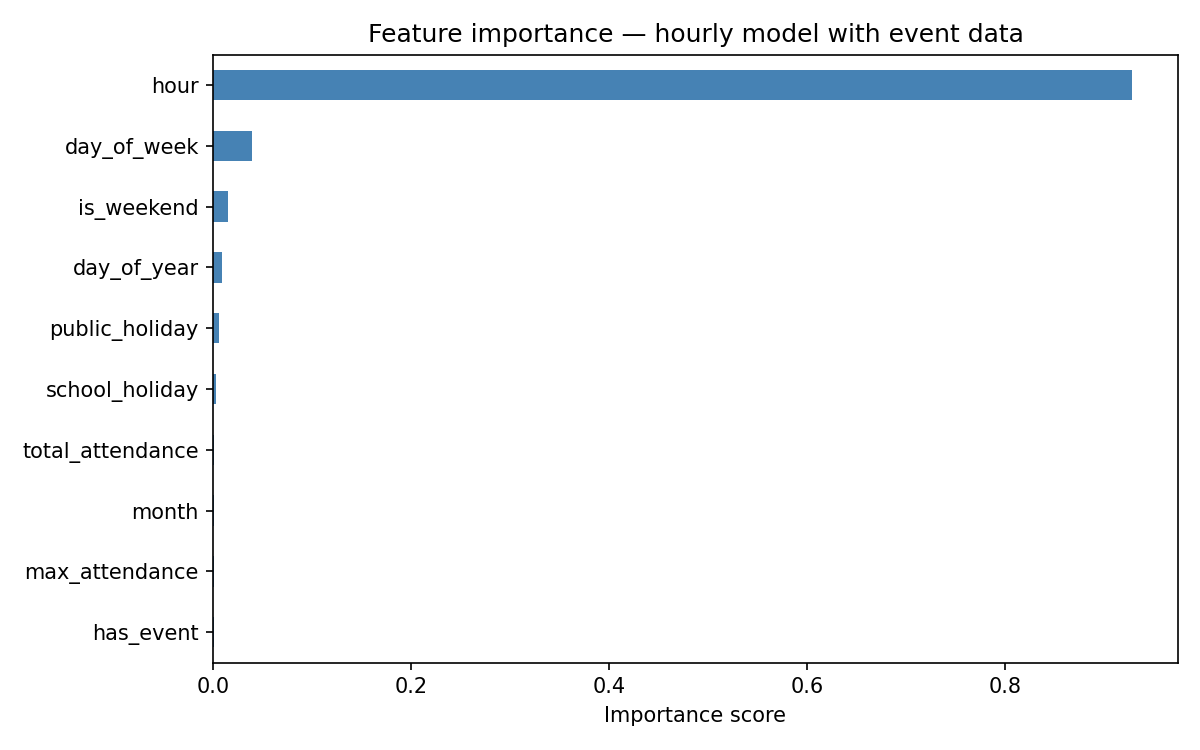
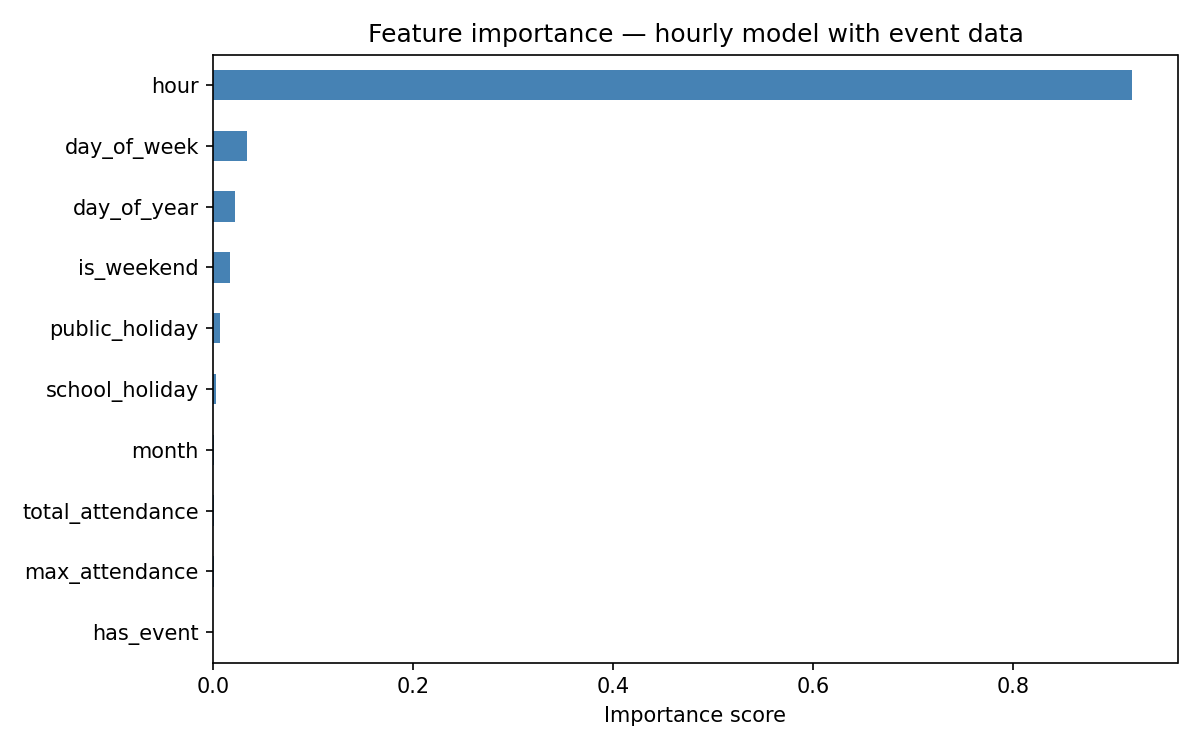
4

diff --git a/angus/tfnsw_api/main.py b/angus/tfnsw_api/main.py
@@ -21,27 +21,42 @@ hourly = hourly.drop(columns="hour_col")
 hourly = hourly.dropna(subset=["vehicle_count"])
 hourly = hourly.sort_values(["date", "hour"]).reset_index(drop=True)
 
-# ── Load and combine all event files ─────────────────────────
+# ── Load all event files ──────────────────────────────────────
 scg      = pd.read_csv("../../scg_events_2013_2019_clean.csv")
 hordern  = pd.read_csv("../../hordern_events_2013_2019_clean.csv")
 randwick = pd.read_csv("../../ben/royal_randwick_events_2013_2019_clean_with_estimated_attendance.csv")
+allianz  = pd.read_csv("../../allianz_sfs_events_2013_2019_clean.csv")
 
-scg = scg.rename(columns={"attendance": "estimated_attendance"})
+# Rename and fill attendance with venue capacity estimates
+scg     = scg.rename(columns={"attendance": "estimated_attendance"})
+allianz = allianz.rename(columns={"attendance": "estimated_attendance"})
 
-scg["event_hour"]      = pd.to_numeric(scg["start_hour"], errors="coerce").fillna(18).astype(int)
-hordern["event_hour"]  = pd.to_numeric(hordern["hour"],   errors="coerce").fillna(18).astype(int)
-randwick["event_hour"] = pd.to_numeric(randwick["hour"],  errors="coerce").fillna(18).astype(int)
+scg["estimated_attendance"]      = scg["estimated_attendance"].fillna(35000)
+hordern["estimated_attendance"]  = hordern["estimated_attendance"].fillna(5500)
+randwick["estimated_attendance"] = randwick["estimated_attendance"].fillna(20000)
+allianz["estimated_attendance"]  = allianz["estimated_attendance"].fillna(40000)
 
+# Get event hours
+scg["event_hour"]      = pd.to_numeric(scg["start_hour"],    errors="coerce").fillna(18).astype(int)
+hordern["event_hour"]  = pd.to_numeric(hordern["hour"],      errors="coerce").fillna(18).astype(int)
+randwick["event_hour"] = pd.to_numeric(randwick["hour"],     errors="coerce").fillna(18).astype(int)
+allianz["event_hour"]  = pd.to_numeric(allianz["start_hour"],errors="coerce").fillna(18).astype(int)
+
+# ── Combine all events ────────────────────────────────────────
 events = pd.concat([
     scg[["date", "estimated_attendance", "event_hour"]],
     hordern[["date", "estimated_attendance", "event_hour"]],
-    randwick[["date", "estimated_attendance", "event_hour"]]
+    randwick[["date", "estimated_attendance", "event_hour"]],
+    allianz[["date", "estimated_attendance", "event_hour"]]
 ], ignore_index=True)
 events["date"] = pd.to_datetime(events["date"]).dt.normalize()
 
+print(f"Total events across all venues: {len(events)}")
+print(events.groupby(pd.to_datetime(events["date"]).dt.year)["estimated_attendance"].count().rename("event_count"))
+
 event_hours = []
 for _, row in events.iterrows():
-    for h in range(int(row["event_hour"]), min(int(row["event_hour"]) + 5, 24)):
+    for h in range(int(row["event_hour"]), min(int(row["event_hour"]) + 4, 24)):
         event_hours.append({
             "date":             row["date"],
             "hour":             h,
@@ -76,13 +91,13 @@ FEATURES = [
 TARGET = "vehicle_count"
 
 # ── Train/test split ──────────────────────────────────────────
-train = hourly[(hourly["year"] >= 2017) & (hourly["year"] <= 2018)]
+train = hourly[(hourly["year"] >= 2013) & (hourly["year"] <= 2018)]
 test  = hourly[hourly["year"] == 2019]
 
 X_train, y_train = train[FEATURES], train[TARGET]
 X_test,  y_test  = test[FEATURES],  test[TARGET]
 
-print(f"Training rows      : {len(X_train):,}")
+print(f"\nTraining rows      : {len(X_train):,}")
 print(f"Test rows          : {len(X_test):,}")
 print(f"Event hours in test: {test['has_event'].sum():.0f}")
 
@@ -118,9 +133,9 @@ plt.tight_layout()
 plt.savefig("feature_importance_hourly.png", dpi=150)
 plt.close()
 
-print("\n✓ Plots saved.")
+print("\n✓ Model plots saved.")
 
-# ── Core prediction function (per hour) ───────────────────────
+# ── Core prediction functions ─────────────────────────────────
 def predict_hour(date_str, hour, has_event=0, max_attendance=0, total_attendance=0):
     date = pd.Timestamp(date_str)
     input_data = pd.DataFrame([{
@@ -137,21 +152,16 @@ def predict_hour(date_str, hour, has_event=0, max_attendance=0, total_attendance
     }])
     return model.predict(input_data)[0]
 
-# ── Daily summary prediction ──────────────────────────────────
 def predict_day_summary(date_str, has_event=0, max_attendance=0,
-                         total_attendance=0, event_hour=18):
+                         total_attendance=0, event_hour=18, event_duration=4):
     hourly_preds = []
     for h in range(24):
-        h_event = has_event if (has_event and h >= event_hour) else 0
-        hourly_preds.append(predict_hour(
-            date_str, h, h_event, max_attendance, total_attendance
-        ))
-
+        h_event = has_event if (has_event and event_hour <= h < event_hour + event_duration) else 0
+        hourly_preds.append(predict_hour(date_str, h, h_event, max_attendance, total_attendance))
     total      = sum(hourly_preds)
     peak_hour  = hourly_preds.index(max(hourly_preds))
     peak_count = max(hourly_preds)
     congestion = "Low" if total < 10000 else "Moderate" if total < 13000 else "High" if total < 15000 else "Severe"
-
     print(f"\n{'='*50}")
     print(f"DATE SUMMARY: {date_str}")
     print(f"{'='*50}")
@@ -161,40 +171,73 @@ def predict_day_summary(date_str, has_event=0, max_attendance=0,
     print(f"Event day        : {'Yes' if has_event else 'No'}")
     return total, hourly_preds
 
-# ── Hourly breakdown prediction ───────────────────────────────
 def predict_day_hourly(date_str, has_event=0, max_attendance=0,
-                        total_attendance=0, event_hour=18):
+                        total_attendance=0, event_hour=18, event_duration=4):
     print(f"\n{'='*50}")
     print(f"HOURLY BREAKDOWN: {date_str}")
     print(f"{'='*50}")
     print(f"{'Hour':<8} {'Vehicles':>10} {'Congestion':>12}")
     print("-" * 32)
-
     hourly_preds = []
     for h in range(24):
-        h_event = has_event if (has_event and h >= event_hour) else 0
+        h_event = has_event if (has_event and event_hour <= h < event_hour + event_duration) else 0
         pred    = predict_hour(date_str, h, h_event, max_attendance, total_attendance)
         level   = "Low" if pred < 300 else "Moderate" if pred < 600 else "High" if pred < 900 else "Severe"
         marker  = " ◀ EVENT" if h_event else ""
         print(f"{h:02d}:00   {pred:>10.0f} {level:>12}{marker}")
         hourly_preds.append(pred)
-
     return hourly_preds
 
-# ── Auto predict using Ben's future event data ────────────────
-future_events = pd.read_csv("../../ben/events_cleaned.csv")
-future_events["date"]       = pd.to_datetime(future_events["start"]).dt.tz_localize(None).dt.normalize()
-future_events["event_hour"] = pd.to_datetime(future_events["start"]).dt.tz_localize(None).dt.hour
+def plot_future_day(date_str, has_event=0, max_attendance=0,
+                    total_attendance=0, event_hour=18, event_duration=4,
+                    event_name="Event"):
+    hours = list(range(24))
+    predictions = []
+    for h in hours:
+        h_event = has_event if (has_event and event_hour <= h < event_hour + event_duration) else 0
+        predictions.append(predict_hour(date_str, h, h_event, max_attendance, total_attendance))
 
-def predict_with_auto_events(date_str, show_hourly=True):
+    total      = sum(predictions)
+    congestion = "Low" if total < 10000 else "Moderate" if total < 13000 else "High" if total < 15000 else "Severe"
+
+    fig, ax = plt.subplots(figsize=(12, 5))
+    ax.plot(hours, predictions, color="#89b4fa", linewidth=2.5, marker="o", label="Predicted traffic")
+
+    if has_event:
+        for h in range(event_hour, min(event_hour + event_duration, 24)):
+            ax.axvspan(h - 0.5, h + 0.5, alpha=0.2, color="#f9e2af")
+        ax.axvspan(0, 0, alpha=0.2, color="#f9e2af", label=f"Event: {event_name}")
+        ax.axvline(x=event_hour, color="#f38ba8", linewidth=2,
+                   linestyle="--", label=f"Event starts {event_hour:02d}:00")
+
+    ax.set_ylim(0, max(predictions) * 1.2)
+    ax.set_title(f"Predicted Hourly Traffic — {date_str}  |  Total: {total:.0f} vehicles  |  Congestion: {congestion}")
+    ax.set_xlabel("Hour of day")
+    ax.set_ylabel("Vehicles per hour")
+    ax.set_xticks(range(24))
+    ax.set_xticklabels([f"{h:02d}:00" for h in range(24)], rotation=45)
+    ax.legend()
+    plt.tight_layout()
+    filename = f"predicted_hourly_{date_str}.png"
+    plt.savefig(filename, dpi=150)
+    plt.close()
+    print(f"✓ Saved {filename}")
+
+# ── Load Ben's future event data ─────────────────────────────
+future_events = pd.read_csv("../../ben/events_cleaned_AEDT.csv")
+future_events["date"]       = pd.to_datetime(future_events["start"]).dt.normalize()
+future_events["event_hour"] = pd.to_datetime(future_events["start"]).dt.hour
+
+def predict_with_auto_events(date_str):
     date            = pd.Timestamp(date_str).normalize()
     events_that_day = future_events[future_events["date"] == date]
 
     if len(events_that_day) > 0:
         has_event        = 1
-        max_attendance   = events_that_day["intensity"].max() * 50000
+        max_attendance   = events_that_day["intensity"].max() * 35000
         total_attendance = max_attendance
         event_hour       = int(events_that_day["event_hour"].iloc[0])
+        event_name       = events_that_day["summary"].iloc[0]
         print(f"\nEvents on {date_str}:")
         for _, e in events_that_day.iterrows():
             print(f"  - {e['summary']} (starts {int(e['event_hour']):02d}:00)")
@@ -203,62 +246,29 @@ def predict_with_auto_events(date_str, show_hourly=True):
         max_attendance   = 0
         total_attendance = 0
         event_hour       = 18
+        event_name       = ""
         print(f"\nNo events on {date_str}")
 
     predict_day_summary(date_str, has_event, max_attendance, total_attendance, event_hour)
-
-    if show_hourly:
-        predict_day_hourly(date_str, has_event, max_attendance, total_attendance, event_hour)
+    predict_day_hourly(date_str, has_event, max_attendance, total_attendance, event_hour)
+    plot_future_day(date_str, has_event, max_attendance, total_attendance, event_hour,
+                    event_name=event_name)
 
 # ── Run predictions ───────────────────────────────────────────
-print("\n=== AUTO EVENT PREDICTIONS ===")
-predict_with_auto_events("2026-05-30", show_hourly=True)   # AFL game
-predict_with_auto_events("2026-06-01", show_hourly=True)   # no event
+print("\n=== 2026 PREDICTIONS (AUTO) ===")
+predict_with_auto_events("2026-05-30")   # has event
+predict_with_auto_events("2026-06-01")   # no event
 
-print("\n=== MANUAL PREDICTIONS (2027) ===")
-# Known event
-predict_day_summary("2027-09-13", has_event=1, max_attendance=45000,
-                     total_attendance=45000, event_hour=19)
-predict_day_hourly("2027-09-13",  has_event=1, max_attendance=45000,
-                    total_attendance=45000, event_hour=19)
+print("\n=== 2027 PREDICTION (MANUAL with event) ===")
+predict_day_summary("2027-09-13", has_event=1, max_attendance=35000,
+                     total_attendance=35000, event_hour=19, event_duration=4)
+predict_day_hourly("2027-09-13",  has_event=1, max_attendance=35000,
+                    total_attendance=35000, event_hour=19, event_duration=4)
+plot_future_day("2027-09-13", has_event=1, max_attendance=35000,
+                total_attendance=35000, event_hour=19, event_duration=4,
+                event_name="Major SCG Event")
 
-# Normal day
-predict_day_summary("2027-09-14")
-predict_day_hourly("2027-09-14")
-# ── Plot actual vs predicted for a specific past date ─────────
-def plot_day(date_str):
-    date = pd.Timestamp(date_str).normalize()
-    sample = test[test["date"] == date].sort_values("hour")
-
-    if len(sample) == 0:
-        print(f"No data found for {date_str} — must be a date in 2019")
-        return
-
-    fig, ax = plt.subplots(figsize=(12, 5))
-    ax.plot(sample["hour"], sample["vehicle_count"], label="Actual",
-            color="#89b4fa", linewidth=2, marker="o")
-    ax.plot(sample["hour"], sample["predicted"],     label="Predicted",
-            color="#f38ba8", linewidth=2, linestyle="--", marker="o")
-
-    # Shade event hours
-    event_hrs = sample[sample["has_event"] == 1]["hour"].tolist()
-    for h in event_hrs:
-        ax.axvspan(h - 0.5, h + 0.5, alpha=0.15, color="yellow", label="_nolegend_")
-
-    if event_hrs:
-        ax.axvspan(0, 0, alpha=0.15, color="yellow", label="Event hours")
-
-    ax.set_title(f"Actual vs Predicted by hour — {date_str}")
-    ax.set_xlabel("Hour of day")
-    ax.set_ylabel("Vehicles per hour")
-    ax.set_xticks(range(24))
-    ax.legend()
-    plt.tight_layout()
-    filename = f"hourly_plot_{date_str}.png"
-    plt.savefig(filename, dpi=150)
-    plt.show()
-    print(f"✓ Saved {filename}")
-
-# Try it — must be a date in 2019
-plot_day("2019-03-02")
-plot_day("2019-07-06")
+print("\n=== 2027 PREDICTION (MANUAL no event) ===")
+predict_day_summary("2027-09-13", has_event=0, )
+predict_day_hourly("2027-09-13",  has_event=0, )
+plot_future_day("2027-09-13", has_event=0,)
